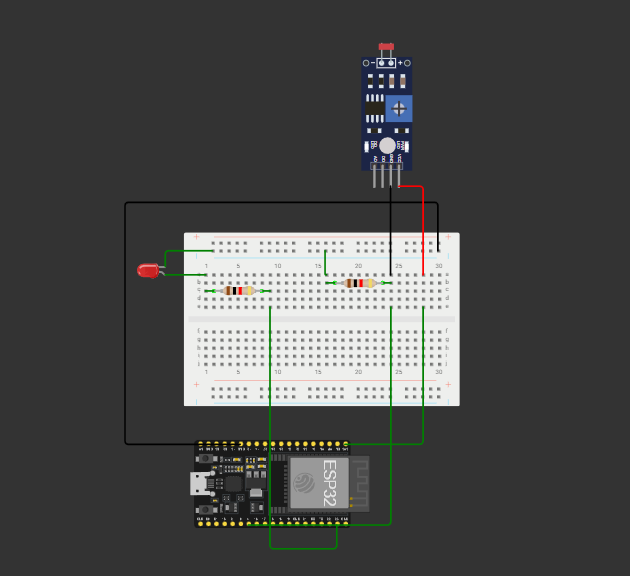
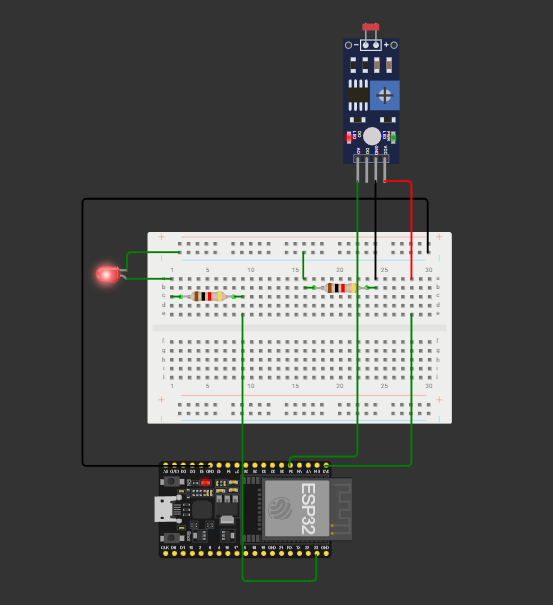
FIX simulacao luminosidade

Changed region(s): [[0.1537, 0.0312, 0.83, 0.9688]]

diff --git a/luminosidade/main.py b/luminosidade/main.py
@@ -1,7 +1,7 @@
 from machine import Pin, ADC
 import time
 
-PINO_LDR = 4
+PINO_LDR = 34
 PINO_LED_ESCURO = 23
 
 sensor_ldr = ADC(Pin(PINO_LDR))
@@ -22,9 +22,9 @@ while True:
     
     if valor_luminosidade < LIMIAR_ESCURO:
         
+        print("Ambiente claro! LED Apagado.")
+        led_escuro.value(0)
+    else:
         print("Ambiente escuro! Acendendo o LED.")
         led_escuro.value(1)
-    else:
-        print("Ambiente claro_-LED Apagado.")
-        led_escuro.value(0)
     time.sleep(1)
